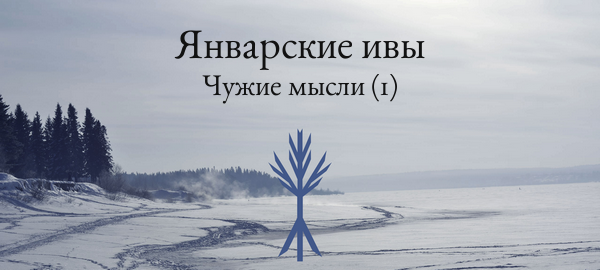
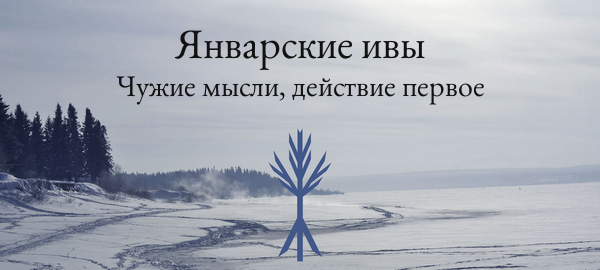
Content Update: Stranger Thoughts Act 2

Changed region(s): [[0.18, 0.2667, 0.81, 0.3852]]

diff --git a/stories/stranger-thoughts-2.html b/stories/stranger-thoughts-2.html
@@ -1,0 +1,179 @@
+<!DOCTYPE html>
+<html xmlns:og="http://ogp.me/ns#">
+<head>
+    <meta charset="utf-8">
+    <meta name="viewport" content="width=device-width, initial-scale=1">
+
+    <title>Январские ивы — Чужие мысли, действие второе</title>
+    <meta name="description" content="В 1807 году немолодой дворянин среднего достатка и весьма грозного нрава Георгий Дмитриевич Гмелин решил окончательно оставить шумный Веденборг и, удачно выкупив несколько старых заводов близ города Людлина, сделался успешным промышленником. Спустя пару лет он заложил севернее города личное свое имение, за которым быстро закрепилось название Гмелино. Имение это стояло на берегу Ятмы, юркого притока Ишмы. Ниже по течению как раз стоял один из купленных Гмелиным заводов, а вокруг раскинулся огромный лес, служивший прекрасным источником топлива и строительных материалов."/>
+
+    <meta name="theme-color" content="#42588a" />
+    <link type="text/css" rel="stylesheet" href="../css/skeleton.min.css">
+    <link type="text/css" rel="stylesheet" href="../css/normalize.css">
+    <link type="text/css" rel="stylesheet" href="../css/styles.css">
+    <link rel="icon" type="image/png" href="../favicon.png"/>
+
+    <meta property="og:type" content="website"/>
+    <meta property="og:title" content="Январские ивы — Чужие мысли, действие второе"/>
+    <meta property="og:url" content="https://willows.is/stories/stranger-thoughts-2.html"/>
+    <meta property="og:description" content="В 1807 году немолодой дворянин среднего достатка и весьма грозного нрава Георгий Дмитриевич Гмелин решил окончательно оставить шумный Веденборг и, удачно выкупив несколько старых заводов близ города Людлина, сделался успешным промышленником. Спустя пару лет он заложил севернее города личное свое имение, за которым быстро закрепилось название Гмелино. Имение это стояло на берегу Ятмы, юркого притока Ишмы. Ниже по течению как раз стоял один из купленных Гмелиным заводов, а вокруг раскинулся огромный лес, служивший прекрасным источником топлива и строительных материалов." />
+    <meta property="og:site_name" content="Январские ивы"/>
+    <meta property="vk:image" content="https://willows.is/img/stranger-thoughts-2-vk.png"/>
+    <meta property="og:image" content="https://willows.is/img/stranger-thoughts-2.png"/>
+    <meta property="og:image:width" content="600"/>
+    <meta property="og:image:height" content = "300"/>
+
+    <meta name="twitter:card" content="summary_large_image">
+    <meta name="twitter:site" content="@heitakringla">
+    <meta name="twitter:title" content="Январские ивы — Чужие мысли, действие второе">
+    <meta name="twitter:description" content="В 1807 году немолодой дворянин среднего достатка и весьма грозного нрава Георгий Дмитриевич Гмелин решил окончательно оставить шумный Веденборг и, удачно выкупив несколько старых заводов близ города Людлина, сделался успешным промышленником. Спустя пару лет он заложил севернее города личное свое имение, за которым быстро закрепилось название Гмелино. Имение это стояло на берегу Ятмы, юркого притока Ишмы. Ниже по течению как раз стоял один из купленных Гмелиным заводов, а вокруг раскинулся огромный лес, служивший прекрасным источником топлива и строительных материалов.">
+    <meta name="twitter:image" content="https://willows.is/img/stranger-thoughts-2.png">
+    <meta name="twitter:creator" content="@mforv">
+
+    <!-- Global site tag (gtag.js) - Google Analytics -->
+    <script async src="https://www.googletagmanager.com/gtag/js?id=UA-38992446-3"></script>
+    <script>
+        window.dataLayer = window.dataLayer || [];
+        function gtag(){dataLayer.push(arguments);}
+        gtag('js', new Date());
+        
+        gtag('config', 'UA-38992446-3');
+    </script>
+    <script src="https://code.jquery.com/jquery-3.3.1.min.js"></script>    <script defer src="https://use.fontawesome.com/releases/v5.0.13/js/all.js" integrity="sha384-xymdQtn1n3lH2wcu0qhcdaOpQwyoarkgLVxC/wZ5q7h9gHtxICrpcaSUfygqZGOe" crossorigin="anonymous"></script></head>
+<body>
+    <div class="menu">
+        <div class="container">
+                <div class="nav nav-title">
+                    <a href="https://willows.is"><img src="../assets/title.png" width="48px" title="Январские ивы"></a>
+                </div>
+                <div class="nav nav-item">
+                    <a href="../stories">Истории</a><span></span>
+                    <a href="../books">Книги</a>
+                </div>
+                <div class="nav nav-item">
+                    <a href="../heitakringla">Мир</a><span></span>
+                    <a href="../heiti">Имена</a><span></span>
+                    <a href="../project">Проект</a>
+                </div>
+                <div class="nav nav-social">
+                    <a href="" id="night-mode"><i class="far fa-moon" title="Включить ночной режим"></i></a><span></span>
+                    <a href="https://t.me/winter_willows" target="_blank"><i class="fab fa-telegram" title="Ивы в Телеграме"></i></a>&thinsp;
+                    <a href="https://vk.com/winter_willows" target="_blank"><i class="fab fa-vk" title="Ивы ВКонтакте"></i></a>&thinsp;
+                    <a href="https://twitter.com/heitakringla" target="_blank"><i class="fab fa-twitter" title="Ивы в Твиттере"></i></a>
+                </div>
+        </div>
+    </div>
+    <div class="container">
+        <div class = "twelve columns">
+          <h2>Чужие мысли, действие второе</h2>
+          <p>В 1807 году немолодой дворянин среднего достатка и весьма грозного нрава Георгий Дмитриевич Гмелин решил окончательно оставить шумный Веденборг и, удачно выкупив несколько старых заводов близ города Людлина, сделался успешным промышленником. Спустя пару лет он заложил севернее города личное свое имение, за которым быстро закрепилось название Гмелино. Имение это стояло на берегу Ятмы, юркого притока Ишмы. Ниже по течению как раз стоял один из купленных Гмелиным заводов, а вокруг раскинулся огромный лес, служивший прекрасным источником топлива и строительных материалов.</p>
+          <p>Полностью отстроенное за пять лет Гмелино пережило впоследствии все войны, голод и неурожаи, лютые морозы и страшную жару, и года, казалось, лишь укрепляют стены из мощных черных бревен. Но те же года, что щадили имение, не пощадили его обитателей. Внук Георгия Дмитриевича, Артемий Александрович, уже был глубоким стариком, дети его давно уже разъехались, семейное гнездо опустело. К девятьсот пятнадцатому году только сухонькая старушка-экономка присматривала за дряхлеющим Артемием Александровичем в огромном пустом доме, к которому со всех сторон вновь начинал подступать лес, когда-то оттесненный промышленниками.</p>
+          <p>Когда Ольшанский впервые увидел трехэтажный хозяйский дом и рассыпанные вокруг пристройки, домишки, сарайчики, доверху засыпанный снегом парк, сильно, наверное, заросший и одичавший; когда увидел крепкую, чуть покосившуюся ограду, свежие, упрямые следы саней, то на мгновение ему показалось, что он вернулся в родную Влахынь, чуть более дикую, возможно, чуть более древнюю и нелюдимую. Адам пока рассчитался с их извозчиком, каким-то мужиком с парой лошадей и санями из Зелецкого, где располагалась ближайшая к Гмелино действующая железнодорожная станция. Условившись, когда за ними нужно возвращаться, Адам отпустил привезшие их сани и присоединился к Ольшанскому.</p>
+          <p>— Красиво здесь, — сказал ему Ольшанский, отряхивая от снега бакенбарды. — В Людлине все равно повсюду слышны торопливые шаги прогресса, а здесь время будто бы застыло где-то на границе веков. Пожалуй, в подобном месте можно было бы поселиться на склоне лет. Но я надеюсь, что мы проделали весь этот путь не просто ради наслаждения хвойным лесом у реки.</p>
+          <p>— Пойдем, ты сам все услышишь, — Адам коротко кивнул в сторону дома.</p>
+          <p>Путь от ворот к дому занял чуть больше времени, чем предполагал Ольшанский. Дорогу давно никто толком не чистил, ноги проваливались почти по щиколотку, и, когда они все же добрались до крыльца, мары слегка запыхались.</p>
+          <p>— Нас ждут? — спросил Ольшанский.</p>
+          <p>— Мы приглашены, — улыбнулся Адам и толкнул массивную дверь. В доме было тихо, пусто и прохладно, топили, видимо, только в том крыле, где жил хозяин. Адам уверенно направился на третий этаж, после чего повел Ольшанского в западную часть дома, где, видимо, и обитал последний Гмелин в этом имении. В одной из комнат горел свет — конечная точка их путешествия. </p>
+          <p>— А, вы все же пришли, — Артемий Александрович улыбнулся пергаментными губами, с некоторым трудом вставая из-за стола, за которым работал. — Я все предаюсь любимому стариковскому делу — воспоминаниям. Эх, мне бы вашу память... Изволите чаю? </p>
+          <p>— Да, если вас не затруднит, — вежливо ответил Адам. Ольшанский бросил взгляд на высокие книжные полки, на фоне которых письменный стол смотрелся почти что игрушечным. Неужели Адам что-то нарыл в этой затерянной в лесах библиотеке?</p>
+          <p>— Сюда, пожалуйста, — Гмелин отвел маров в соседнюю комнату, куда более приспособленную для приема гостей. Небольшая печь разливала по ней приятное тепло. Экономка уже накрыла на стол — загодя, судя по всему. Ольшанскому это немного не понравилось.</p>
+          <p>— Я рад, что вы все же нашли время посетить мою скромную старческую обитель. Хотя, полагаю, по меркам маров мой возраст сложно назвать почтенным, — Гмелин глухо усмехнулся. — С Адамом мы уже знакомы...</p>
+          <p>— Ольшанский, — коротко представился он. — Рад знакомству.</p>
+          <p>— Артемий Гмелин, — представил себя хозяин. — Тоже всецело рад знакомству.</p>
+          <p>— Артемий Александрович, не могли ли бы вы показать моему брату то, о чем вы сообщили мне? — вмешался Адам.</p>
+          <p>— Одну секунду, — Гмелин, наверняка предупрежденный Адамом, полез в карман и извлек оттуда небольшой карандашный рисунок, выполненный на писчей бумаге и аккуратно после сложенный вчетверо. И хотя рисунок был явно сделан на скорую руку и слегка небрежно, в нем легко считывались детали, благодаря которым безошибочно можно было определить, кто же был изображен.</p>
+          <p>Молодая девушка с крупными миндалевидными глазами — в жизни они отливают серебром и синевой. Непослушные, вечно спутанные волосы — в них, наверное, могли бы свить гнездо маленькие птицы... или летучие мыши. Чуть приподнятый краешек губ — самую заговорщицкую малость. Она словно бы хватает тебя за руку и что-то жарко шепчет прямо в ухо. Кажется, будто вы с ней сидите на поросшем полынью холме у широчайшего голубого озера, а она рассказывает историю. </p>
+          <p>Возможно, жуткую: быть может, это история об убийстве. Топор. Петля. Запах крови смешивается с запахом чьих-то духов.</p>
+          <p>Возможно, забавную: быть может, это история о дворецком, свинье и чьем-то наследстве. В череде невообразимо несуразных совпадений кажется естественным, что в конце концов свинья оказывается в постели викария.</p>
+          <p>— Возможно, свою собственную, — сказал вдруг Ольшанский вслух. — Быть может, это история о юной маре, которая оказалась слишком далеко от дома, чтобы найти того, кто обещал ее не забывать. </p>
+          <p>Сглотнув непрошенный ком в горле, он нежно взял рисунок и прямо спросил Гмелина:</p>
+          <p>— Неужели вы нашли ее?</p>
+          <p>Гмелин вздохнул и, подвинув кресло ближе к печи и устремив свой взгляд в мерцающие угли, приготовился говорить.</p>
+          <p class="date">16 октября 2018</p>
+       </div>
+    </div>
+       <div class="footer">
+            <div class="container">
+                <div class="row">
+                    <div class = "twelve columns">
+                        <hr>
+                        <p class="nav"><a href="https://willows.is/stories/truth"><i class="fa fa-angle-double-left" aria-hidden="true" title="Самая первая история: «Правда — зверь с печальным ликом»"></i></a>&emsp;<a href="https://willows.is/stories/stranger-thoughts-1"><i class="fa fa-angle-left" aria-hidden="true" title="Предыдущая история: «Чужие мысли, действие первое»"></i></a>&emsp;43&emsp;<i class="fa fa-angle-right" aria-hidden="true"></i>&emsp;<i class="fa fa-angle-double-right" aria-hidden="true"></i></p>
+                    </div>
+                </div>
+                <div class="row">
+                    <div class = "twelve columns">
+                        <p class="bottom"><a href="https://t.me/winter_willows" target="_blank"><i class="fab fa-telegram"></i>&nbsp;Telegram</a>&emsp;<a href="https://vk.com/winter_willows" target="_blank"><i class="fab fa-vk"></i>&nbsp;VK</a>&emsp;<a href="https://twitter.com/heitakringla" target="_blank"><i class="fab fa-twitter"></i>&nbsp;Twitter</a></p>
+                    </div>
+                </div>
+                <div class="row">
+                    <div class = "twelve columns">
+                        <p class="bottom">Для лиц старше 18 лет. <a href="https://mforv.github.io/" target="_blank">mforv</a>, 2018.</p>
+                    </div>
+                </div>
+                <div class="row">
+                        <div class = "twelve columns">
+                            <p class="bottom"><img src="../assets/willows_logo.png" height="53px"></p>
+                        </div>
+                </div>
+            </div>
+       </div>
+    <!-- Yandex.Metrika counter -->
+    <script type="text/javascript">
+        (function (d, w, c) {
+            (w[c] = w[c] || []).push(function() {
+                try {
+                    w.yaCounter41885434 = new Ya.Metrika({
+                        id:41885434,
+                        clickmap:true,
+                        trackLinks:true,
+                        accurateTrackBounce:true,
+                        webvisor:true
+                    });
+                } catch(e) { }
+            });
+            var n = d.getElementsByTagName("script")[0],
+                s = d.createElement("script"),
+                f = function () { n.parentNode.insertBefore(s, n); };
+            s.type = "text/javascript";
+            s.async = true;
+            s.src = "https://mc.yandex.ru/metrika/watch.js";
+            if (w.opera == "[object Opera]") {
+                d.addEventListener("DOMContentLoaded", f, false);
+            } else { f(); }
+        })(document, window, "yandex_metrika_callbacks");
+    </script>
+    <noscript><div><img src="https://mc.yandex.ru/watch/41885434" style="position:absolute; left:-9999px;" alt="" /></div></noscript>
+    <!-- /Yandex.Metrika counter -->
+    <script type="text/javascript">
+        var night_mode = 0;
+        
+        function mode_upd()
+        {
+            if (night_mode) {
+                document.documentElement.classList.add('night-mode');
+                document.getElementsByClassName("menu")[0].classList.add('night-mode');
+                document.getElementById('night-mode').innerHTML = '<i class="fas fa-moon" title="Выключить ночной режим"></i>';
+            }
+            else {
+                document.documentElement.classList.remove('night-mode');
+                document.getElementsByClassName("menu")[0].classList.remove('night-mode');
+                document.getElementById('night-mode').innerHTML = '<i class="far fa-moon" title="Включить ночной режим"></i>';
+            }
+        }
+        
+        $('load', function()
+        {
+            if (localStorage.getItem('wwNightMode')) { night_mode = Number(localStorage.getItem('wwNightMode')); }
+            mode_upd();
+        });
+        
+        $('#night-mode').on('click', function(event)
+        {
+            event.preventDefault();
+            if (night_mode) { night_mode = 0; } else { night_mode = 1; }
+            mode_upd();
+            localStorage.setItem("wwNightMode", night_mode);
+        });
+    </script>
+</body>
+</html>

diff --git a/stories/index.html b/stories/index.html
@@ -74,7 +74,7 @@
                    <a href="truth" target="_blank">Самая первая история</a>
                </div>
                <div class="nav-inner">
-                   <a href="stranger-thoughts-1" target="_blank">Самая новая история</a>
+                   <a href="stranger-thoughts-2" target="_blank">Самая новая история</a>
                </div>
            </div>
            <hr>
@@ -101,9 +101,9 @@
                   <h4><a href="svartir-sandar" target="_blank">Черные пески</a></h4><p class="story">13 апреля 2018</p>
                   <h4><a href="dialogues-4" target="_blank">Диалоги: двое с Синдвари</a></h4><p class="story">20 апреля 2018</p>
                   <h4><a href="january-sky" target="_blank">Январское небо</a></h4><p class="story">27 апреля 2018</p>
+                  <h4><a href="ye-be-not-judged" target="_blank">Да не судимы будете</a></h4><p class="story">4 мая 2018</p>
                </div>
                <div class = "six columns">
-                  <h4><a href="ye-be-not-judged" target="_blank">Да не судимы будете</a></h4><p class="story">4 мая 2018</p>
                   <h4><a href="vaktposten" target="_blank">Караульный</a></h4><p class="story">11 мая 2018</p>
                   <h4><a href="wicked-times" target="_blank">Лихие пришли времена</a></h4><p class="story">18 мая 2018</p>
                   <h4><a href="nightfall-in-heitakringla-1" target="_blank">Сумерки светоносных, часть 1</a></h4><p class="story">25 мая 2018</p>
@@ -124,6 +124,7 @@
                   <h4><a href="brief-history-of-timelessness" target="_blank">Краткая история безвременья</a></h4><p class="story">21 сентября 2018</p>
                   <h4><a href="lucid-dreaming" target="_blank">Осознанные сновидения</a></h4><p class="story">28 сентября 2018</p>
                   <h4><a href="stranger-thoughts-1" target="_blank">Чужие мысли, действие первое</a></h4><p class="story">12 октября 2018</p>
+                  <h4><a href="stranger-thoughts-2" target="_blank">Чужие мысли, действие второе</a></h4><p class="story">16 октября 2018</p>
                </div>
            </div>
        </div>

diff --git a/stories/to-sister.html b/stories/to-sister.html
@@ -83,7 +83,7 @@
                 <div class="row">
                     <div class = "twelve columns">
                         <hr>
-                        <p class="nav"><a href="https://willows.is/stories/truth"><i class="fa fa-angle-double-left" aria-hidden="true" title="Самая первая история: «Правда — зверь с печальным ликом»"></i></a>&emsp;<a href="https://willows.is/stories/dialogues-2"><i class="fa fa-angle-left" aria-hidden="true" title="Предыдущая история: «Диалоги: мастер и координаторы»"></i></a>&emsp;6&emsp;<a href="https://willows.is/stories/an-unsent-letter"><i class="fa fa-angle-right" aria-hidden="true" title="Следующая история: «Неотправленное письмо, найденное в пустом доме»"></i></a>&emsp;<a href="https://willows.is/stories/stranger-thoughts-1"><i class="fa fa-angle-double-right" aria-hidden="true" title="Самая новая история: «Чужие мысли, действие первое»"></i></a></p>
+                        <p class="nav"><a href="https://willows.is/stories/truth"><i class="fa fa-angle-double-left" aria-hidden="true" title="Самая первая история: «Правда — зверь с печальным ликом»"></i></a>&emsp;<a href="https://willows.is/stories/dialogues-2"><i class="fa fa-angle-left" aria-hidden="true" title="Предыдущая история: «Диалоги: мастер и координаторы»"></i></a>&emsp;6&emsp;<a href="https://willows.is/stories/an-unsent-letter"><i class="fa fa-angle-right" aria-hidden="true" title="Следующая история: «Неотправленное письмо, найденное в пустом доме»"></i></a>&emsp;<a href="https://willows.is/stories/stranger-thoughts-2"><i class="fa fa-angle-double-right" aria-hidden="true" title="Самая новая история: «Чужие мысли, действие второе»"></i></a></p>
                     </div>
                 </div>
                 <div class="row">

diff --git a/stories/lucid-dreaming.html b/stories/lucid-dreaming.html
@@ -87,7 +87,7 @@
                 <div class="row">
                     <div class = "twelve columns">
                         <hr>
-                        <p class="nav"><a href="https://willows.is/stories/truth"><i class="fa fa-angle-double-left" aria-hidden="true" title="Самая первая история: «Правда — зверь с печальным ликом»"></i></a>&emsp;<a href="https://willows.is/stories/brief-history-of-timelessness"><i class="fa fa-angle-left" aria-hidden="true" title="Предыдущая история: «Краткая история безвременья»"></i></a>&emsp;41&emsp;<a href="https://willows.is/stories/stranger-thoughts-1"><i class="fa fa-angle-right" aria-hidden="true" title="Следующая история: «Чужие мысли, действие первое»"></i></a>&emsp;<a href="https://willows.is/stories/stranger-thoughts-1"><i class="fa fa-angle-double-right" aria-hidden="true" title="Самая новая история: «Чужие мысли, действие первое»"></i></a></p>
+                        <p class="nav"><a href="https://willows.is/stories/truth"><i class="fa fa-angle-double-left" aria-hidden="true" title="Самая первая история: «Правда — зверь с печальным ликом»"></i></a>&emsp;<a href="https://willows.is/stories/brief-history-of-timelessness"><i class="fa fa-angle-left" aria-hidden="true" title="Предыдущая история: «Краткая история безвременья»"></i></a>&emsp;41&emsp;<a href="https://willows.is/stories/stranger-thoughts-1"><i class="fa fa-angle-right" aria-hidden="true" title="Следующая история: «Чужие мысли, действие первое»"></i></a>&emsp;<a href="https://willows.is/stories/stranger-thoughts-2"><i class="fa fa-angle-double-right" aria-hidden="true" title="Самая новая история: «Чужие мысли, действие второе»"></i></a></p>
                     </div>
                 </div>
                 <div class="row">

diff --git a/stories/skaragoss.html b/stories/skaragoss.html
@@ -164,7 +164,7 @@
                 <div class="row">
                     <div class = "twelve columns">
                         <hr>
-                        <p class="nav"><a href="https://willows.is/stories/truth"><i class="fa fa-angle-double-left" aria-hidden="true" title="Самая первая история: «Правда — зверь с печальным ликом»"></i></a>&emsp;<a href="https://willows.is/stories/an-unsent-letter"><i class="fa fa-angle-left" aria-hidden="true" title="Предыдущая история: «Неотправленное письмо, найденное в пустом доме»"></i></a>&emsp;8&emsp;<a href="https://willows.is/stories/dialogues-3"><i class="fa fa-angle-right" aria-hidden="true" title="Следующая история: «Диалоги: два короля»"></i></a>&emsp;<a href="https://willows.is/stories/stranger-thoughts-1"><i class="fa fa-angle-double-right" aria-hidden="true" title="Самая новая история: «Чужие мысли, действие первое»"></i></a></p>
+                        <p class="nav"><a href="https://willows.is/stories/truth"><i class="fa fa-angle-double-left" aria-hidden="true" title="Самая первая история: «Правда — зверь с печальным ликом»"></i></a>&emsp;<a href="https://willows.is/stories/an-unsent-letter"><i class="fa fa-angle-left" aria-hidden="true" title="Предыдущая история: «Неотправленное письмо, найденное в пустом доме»"></i></a>&emsp;8&emsp;<a href="https://willows.is/stories/dialogues-3"><i class="fa fa-angle-right" aria-hidden="true" title="Следующая история: «Диалоги: два короля»"></i></a>&emsp;<a href="https://willows.is/stories/stranger-thoughts-2"><i class="fa fa-angle-double-right" aria-hidden="true" title="Самая новая история: «Чужие мысли, действие второе»"></i></a></p>
                     </div>
                 </div>
                 <div class="row">

diff --git a/stories/die-geschäftsmänner.html b/stories/die-geschäftsmänner.html
@@ -102,7 +102,7 @@
                 <div class="row">
                     <div class = "twelve columns">
                         <hr>
-                        <p class="nav"><a href="https://willows.is/stories/truth"><i class="fa fa-angle-double-left" aria-hidden="true" title="Самая первая история: «Правда — зверь с печальным ликом»"></i></a>&emsp;<a href="https://willows.is/stories/night-talk"><i class="fa fa-angle-left" aria-hidden="true" title="Предыдущая история: «Неловкий разговор на полпути между Эгерией и Храйсвельгом»"></i></a>&emsp;16&emsp;<a href="https://willows.is/stories/return"><i class="fa fa-angle-right" aria-hidden="true" title="Следующая история: «Возвращение»"></i></a>&emsp;<a href="https://willows.is/stories/stranger-thoughts-1"><i class="fa fa-angle-double-right" aria-hidden="true" title="Самая новая история: «Чужие мысли, действие первое»"></i></a></p>
+                        <p class="nav"><a href="https://willows.is/stories/truth"><i class="fa fa-angle-double-left" aria-hidden="true" title="Самая первая история: «Правда — зверь с печальным ликом»"></i></a>&emsp;<a href="https://willows.is/stories/night-talk"><i class="fa fa-angle-left" aria-hidden="true" title="Предыдущая история: «Неловкий разговор на полпути между Эгерией и Храйсвельгом»"></i></a>&emsp;16&emsp;<a href="https://willows.is/stories/return"><i class="fa fa-angle-right" aria-hidden="true" title="Следующая история: «Возвращение»"></i></a>&emsp;<a href="https://willows.is/stories/stranger-thoughts-2"><i class="fa fa-angle-double-right" aria-hidden="true" title="Самая новая история: «Чужие мысли, действие второе»"></i></a></p>
                     </div>
                 </div>
                 <div class="row">

diff --git a/stories/lady-sorrow-welcomes.html b/stories/lady-sorrow-welcomes.html
@@ -268,7 +268,7 @@
                 <div class="row">
                     <div class = "twelve columns">
                         <hr>
-                        <p class="nav"><a href="https://willows.is/stories/truth"><i class="fa fa-angle-double-left" aria-hidden="true" title="Самая первая история: «Правда — зверь с печальным ликом»"></i></a>&emsp;<a href="https://willows.is/stories/en-eriks-dag"><i class="fa fa-angle-left" aria-hidden="true" title="Предыдущая история: «Один день Эрика Густафссона»"></i></a>&emsp;4&emsp;<a href="https://willows.is/stories/dialogues-2"><i class="fa fa-angle-right" aria-hidden="true" title="Следующая история: «Диалоги: мастер и координаторы»"></i></a>&emsp;<a href="https://willows.is/stories/stranger-thoughts-1"><i class="fa fa-angle-double-right" aria-hidden="true" title="Самая новая история: «Чужие мысли, действие первое»"></i></a></p>
+                        <p class="nav"><a href="https://willows.is/stories/truth"><i class="fa fa-angle-double-left" aria-hidden="true" title="Самая первая история: «Правда — зверь с печальным ликом»"></i></a>&emsp;<a href="https://willows.is/stories/en-eriks-dag"><i class="fa fa-angle-left" aria-hidden="true" title="Предыдущая история: «Один день Эрика Густафссона»"></i></a>&emsp;4&emsp;<a href="https://willows.is/stories/dialogues-2"><i class="fa fa-angle-right" aria-hidden="true" title="Следующая история: «Диалоги: мастер и координаторы»"></i></a>&emsp;<a href="https://willows.is/stories/stranger-thoughts-2"><i class="fa fa-angle-double-right" aria-hidden="true" title="Самая новая история: «Чужие мысли, действие второе»"></i></a></p>
                     </div>
                 </div>
                 <div class="row">

diff --git a/stories/nightfall-in-heitakringla-2.html b/stories/nightfall-in-heitakringla-2.html
@@ -231,7 +231,7 @@
                 <div class="row">
                     <div class = "twelve columns">
                         <hr>
-                        <p class="nav"><a href="https://willows.is/stories/truth"><i class="fa fa-angle-double-left" aria-hidden="true" title="Самая первая история: «Правда — зверь с печальным ликом»"></i></a>&emsp;<a href="https://willows.is/stories/nightfall-in-heitakringla-1"><i class="fa fa-angle-left" aria-hidden="true" title="Предыдущая история: «Сумерки светоносных, часть 1»"></i></a>&emsp;26&emsp;<a href="https://willows.is/stories/fifth-divination"><i class="fa fa-angle-right" aria-hidden="true" title="Следующая история: «Пятое предсказание»"></i></a>&emsp;<a href="https://willows.is/stories/stranger-thoughts-1"><i class="fa fa-angle-double-right" aria-hidden="true" title="Самая новая история: «Чужие мысли, действие первое»"></i></a></p>
+                        <p class="nav"><a href="https://willows.is/stories/truth"><i class="fa fa-angle-double-left" aria-hidden="true" title="Самая первая история: «Правда — зверь с печальным ликом»"></i></a>&emsp;<a href="https://willows.is/stories/nightfall-in-heitakringla-1"><i class="fa fa-angle-left" aria-hidden="true" title="Предыдущая история: «Сумерки светоносных, часть 1»"></i></a>&emsp;26&emsp;<a href="https://willows.is/stories/fifth-divination"><i class="fa fa-angle-right" aria-hidden="true" title="Следующая история: «Пятое предсказание»"></i></a>&emsp;<a href="https://willows.is/stories/stranger-thoughts-2"><i class="fa fa-angle-double-right" aria-hidden="true" title="Самая новая история: «Чужие мысли, действие второе»"></i></a></p>
                     </div>
                 </div>
                 <div class="row">

diff --git a/stories/nightfall-in-heitakringla-1.html b/stories/nightfall-in-heitakringla-1.html
@@ -200,7 +200,7 @@
                 <div class="row">
                     <div class = "twelve columns">
                         <hr>
-                        <p class="nav"><a href="https://willows.is/stories/truth"><i class="fa fa-angle-double-left" aria-hidden="true" title="Самая первая история: «Правда — зверь с печальным ликом»"></i></a>&emsp;<a href="https://willows.is/stories/wicked-times"><i class="fa fa-angle-left" aria-hidden="true" title="Предыдущая история: «Лихие пришли времена»"></i></a>&emsp;25&emsp;<a href="https://willows.is/stories/nightfall-in-heitakringla-2"><i class="fa fa-angle-right" aria-hidden="true" title="Следующая история: «Сумерки светоносных, часть 2»"></i></a>&emsp;<a href="https://willows.is/stories/stranger-thoughts-1"><i class="fa fa-angle-double-right" aria-hidden="true" title="Самая новая история: «Чужие мысли, действие первое»"></i></a></p>
+                        <p class="nav"><a href="https://willows.is/stories/truth"><i class="fa fa-angle-double-left" aria-hidden="true" title="Самая первая история: «Правда — зверь с печальным ликом»"></i></a>&emsp;<a href="https://willows.is/stories/wicked-times"><i class="fa fa-angle-left" aria-hidden="true" title="Предыдущая история: «Лихие пришли времена»"></i></a>&emsp;25&emsp;<a href="https://willows.is/stories/nightfall-in-heitakringla-2"><i class="fa fa-angle-right" aria-hidden="true" title="Следующая история: «Сумерки светоносных, часть 2»"></i></a>&emsp;<a href="https://willows.is/stories/stranger-thoughts-2"><i class="fa fa-angle-double-right" aria-hidden="true" title="Самая новая история: «Чужие мысли, действие второе»"></i></a></p>
                     </div>
                 </div>
                 <div class="row">

diff --git a/stories/berdreymi.html b/stories/berdreymi.html
@@ -102,7 +102,7 @@
                 <div class="row">
                     <div class = "twelve columns">
                         <hr>
-                        <p class="nav"><a href="https://willows.is/stories/truth"><i class="fa fa-angle-double-left" aria-hidden="true" title="Самая первая история: «Правда — зверь с печальным ликом»"></i></a>&emsp;<a href="https://willows.is/stories/yana"><i class="fa fa-angle-left" aria-hidden="true" title="Предыдущая история: «Яна»"></i></a>&emsp;14&emsp;<a href="https://willows.is/stories/night-talk"><i class="fa fa-angle-right" aria-hidden="true" title="Следующая история: «Неловкий разговор на полпути между Эгерией и Храйсвельгом»"></i></a>&emsp;<a href="https://willows.is/stories/stranger-thoughts-1"><i class="fa fa-angle-double-right" aria-hidden="true" title="Самая новая история: «Чужие мысли, действие первое»"></i></a></p>
+                        <p class="nav"><a href="https://willows.is/stories/truth"><i class="fa fa-angle-double-left" aria-hidden="true" title="Самая первая история: «Правда — зверь с печальным ликом»"></i></a>&emsp;<a href="https://willows.is/stories/yana"><i class="fa fa-angle-left" aria-hidden="true" title="Предыдущая история: «Яна»"></i></a>&emsp;14&emsp;<a href="https://willows.is/stories/night-talk"><i class="fa fa-angle-right" aria-hidden="true" title="Следующая история: «Неловкий разговор на полпути между Эгерией и Храйсвельгом»"></i></a>&emsp;<a href="https://willows.is/stories/stranger-thoughts-2"><i class="fa fa-angle-double-right" aria-hidden="true" title="Самая новая история: «Чужие мысли, действие второе»"></i></a></p>
                     </div>
                 </div>
                 <div class="row">

diff --git a/stories/dialogues-1.html b/stories/dialogues-1.html
@@ -88,7 +88,7 @@
                 <div class="row">
                     <div class = "twelve columns">
                         <hr>
-                        <p class="nav"><a href="https://willows.is/stories/truth"><i class="fa fa-angle-double-left" aria-hidden="true" title="Самая первая история: «Правда — зверь с печальным ликом»"></i></a>&emsp;<a href="https://willows.is/stories/truth"><i class="fa fa-angle-left" aria-hidden="true" title="Предыдущая история: «Правда — зверь с печальным ликом»"></i></a>&emsp;2&emsp;<a href="https://willows.is/stories/en-eriks-dag"><i class="fa fa-angle-right" aria-hidden="true" title="Следующая история: «Один день Эрика Густафссона»"></i></a>&emsp;<a href="https://willows.is/stories/stranger-thoughts-1"><i class="fa fa-angle-double-right" aria-hidden="true" title="Самая новая история: «Чужие мысли, действие первое»"></i></a></p>
+                        <p class="nav"><a href="https://willows.is/stories/truth"><i class="fa fa-angle-double-left" aria-hidden="true" title="Самая первая история: «Правда — зверь с печальным ликом»"></i></a>&emsp;<a href="https://willows.is/stories/truth"><i class="fa fa-angle-left" aria-hidden="true" title="Предыдущая история: «Правда — зверь с печальным ликом»"></i></a>&emsp;2&emsp;<a href="https://willows.is/stories/en-eriks-dag"><i class="fa fa-angle-right" aria-hidden="true" title="Следующая история: «Один день Эрика Густафссона»"></i></a>&emsp;<a href="https://willows.is/stories/stranger-thoughts-2"><i class="fa fa-angle-double-right" aria-hidden="true" title="Самая новая история: «Чужие мысли, действие второе»"></i></a></p>
                     </div>
                 </div>
                 <div class="row">

diff --git a/stories/determination.html b/stories/determination.html
@@ -92,7 +92,7 @@
                 <div class="row">
                     <div class = "twelve columns">
                         <hr>
-                        <p class="nav"><a href="https://willows.is/stories/truth"><i class="fa fa-angle-double-left" aria-hidden="true" title="Самая первая история: «Правда — зверь с печальным ликом»"></i></a>&emsp;<a href="https://willows.is/stories/fifth-divination"><i class="fa fa-angle-left" aria-hidden="true" title="Предыдущая история: «Пятое предсказание»"></i></a>&emsp;28&emsp;<a href="https://willows.is/stories/dialogues-5"><i class="fa fa-angle-right" aria-hidden="true" title="Следующая история: «Диалоги: координатор и герцогиня»"></i></a>&emsp;<a href="https://willows.is/stories/stranger-thoughts-1"><i class="fa fa-angle-double-right" aria-hidden="true" title="Самая новая история: «Чужие мысли, действие первое»"></i></a></p>
+                        <p class="nav"><a href="https://willows.is/stories/truth"><i class="fa fa-angle-double-left" aria-hidden="true" title="Самая первая история: «Правда — зверь с печальным ликом»"></i></a>&emsp;<a href="https://willows.is/stories/fifth-divination"><i class="fa fa-angle-left" aria-hidden="true" title="Предыдущая история: «Пятое предсказание»"></i></a>&emsp;28&emsp;<a href="https://willows.is/stories/dialogues-5"><i class="fa fa-angle-right" aria-hidden="true" title="Следующая история: «Диалоги: координатор и герцогиня»"></i></a>&emsp;<a href="https://willows.is/stories/stranger-thoughts-2"><i class="fa fa-angle-double-right" aria-hidden="true" title="Самая новая история: «Чужие мысли, действие второе»"></i></a></p>
                     </div>
                 </div>
                 <div class="row">
